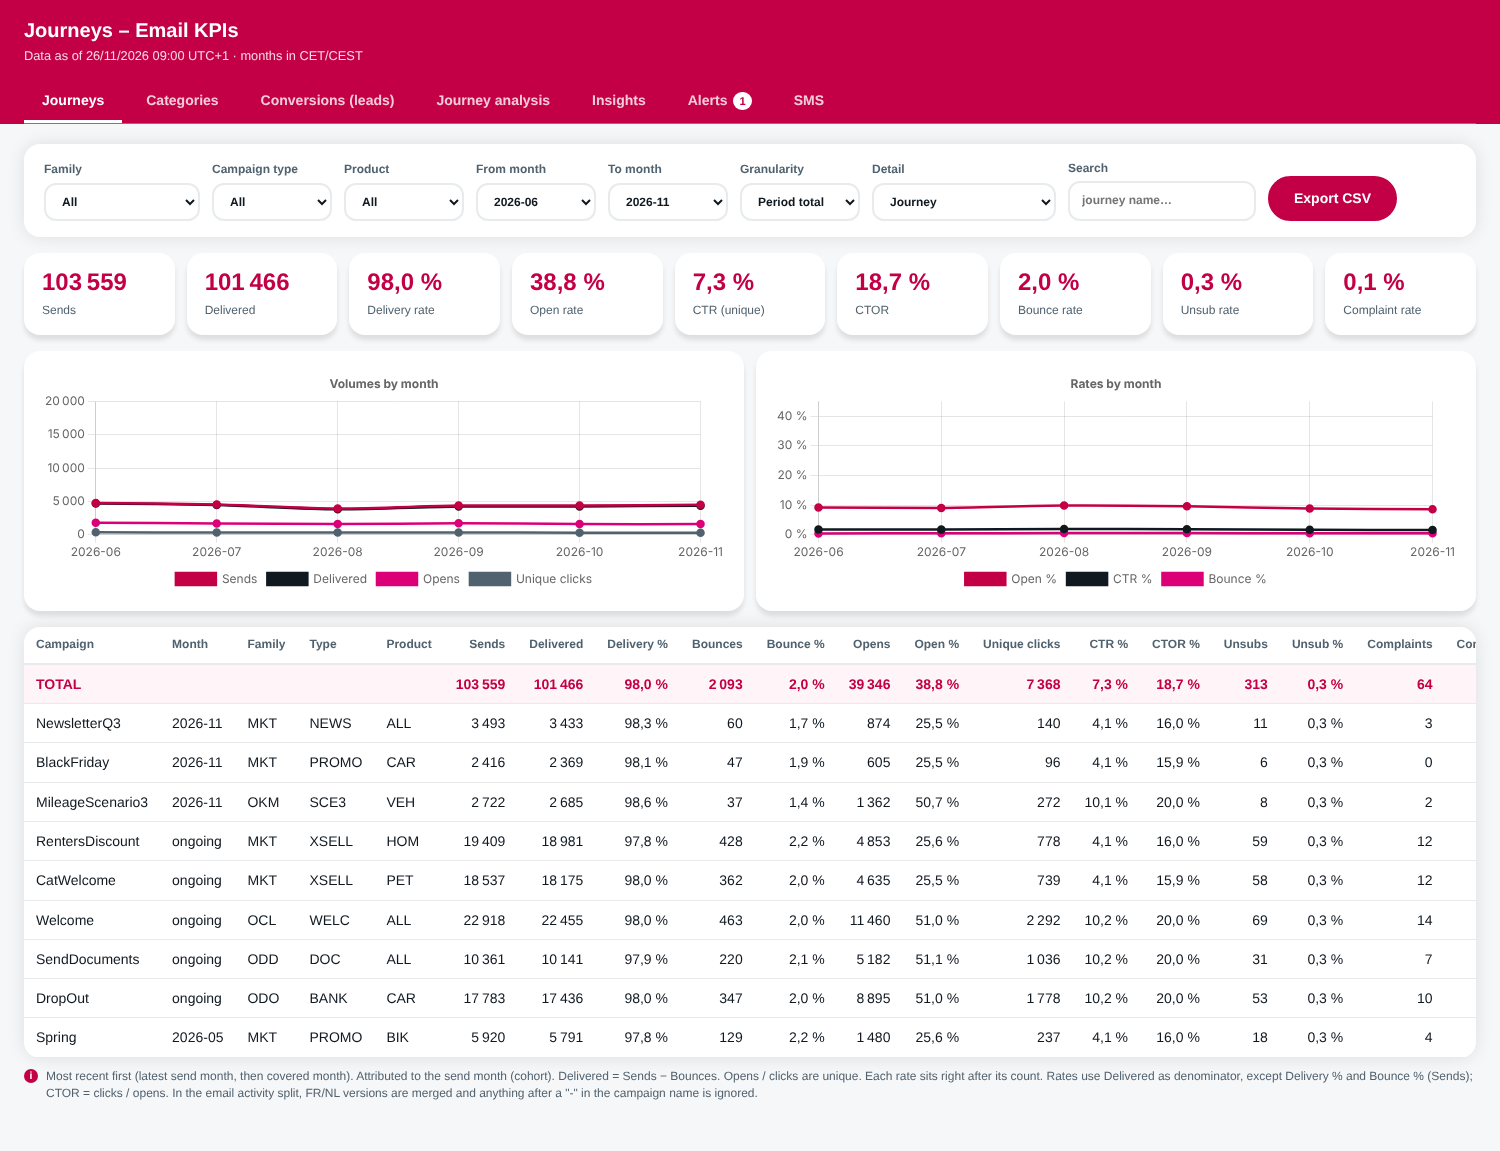
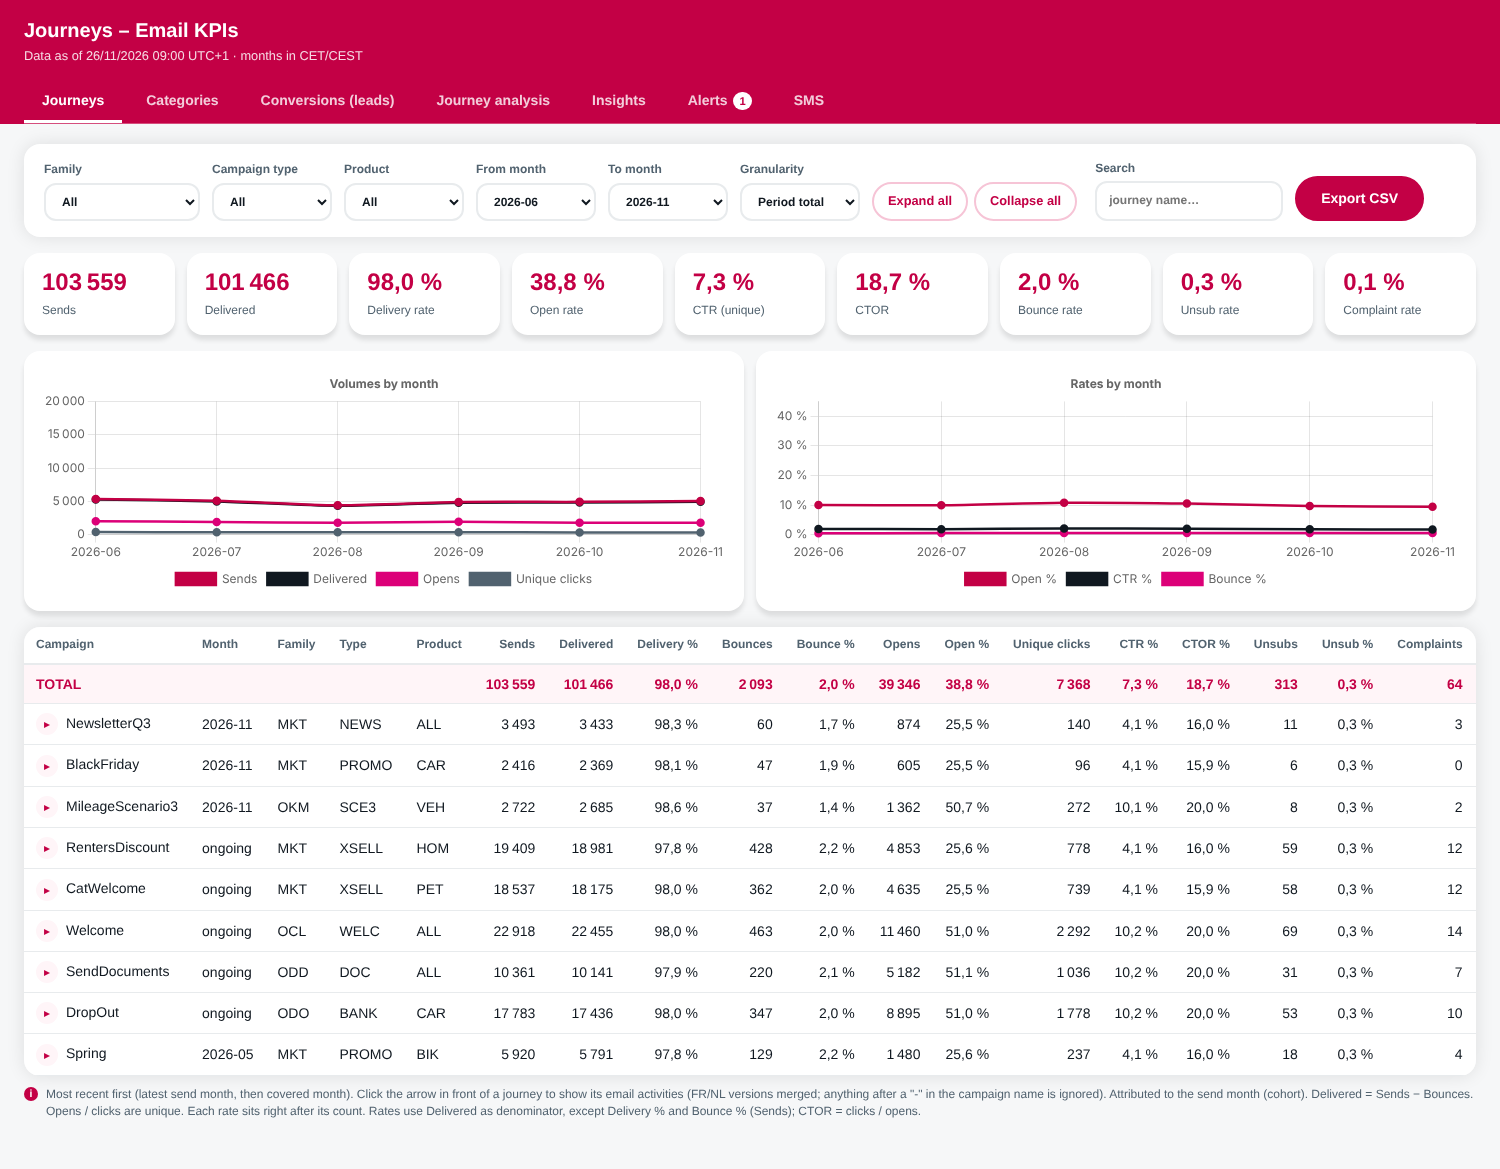
Journeys/Conversions: email activity shown as collapsible rows under each journey
Claude-Session: https://claude.ai/code/session_01WtzjzeTDomDiWbenzCQNQG

diff --git a/cloudpage_dashboard.html b/cloudpage_dashboard.html
@@ -134,6 +134,17 @@ thead th.sorted{color:var(--red)}
 thead th.sorted::after{content:attr(data-arrow)}
 tbody tr:hover td{background:var(--pink-bg)}
 tr.tot td{font-weight:700;background:var(--pink-bg);color:var(--red)}
+.btn2{font:inherit;font-size:.8rem;font-weight:600;padding:8px 14px;margin-right:6px;border-radius:20px;cursor:pointer;background:var(--card);color:var(--red);border:2px solid var(--pink-mid)}
+.btn2:hover{border-color:var(--red)}
+.btn2:focus-visible{outline:2px solid var(--focus);outline-offset:2px}
+.tg{border:0;background:var(--pink-bg);color:var(--red);width:22px;height:22px;border-radius:50%;cursor:pointer;margin-right:8px;font-size:.75rem;line-height:22px;padding:0;vertical-align:middle;transition:transform .15s}
+.tg:hover{background:var(--pink-mid)}
+.tg:focus-visible{outline:2px solid var(--focus);outline-offset:1px}
+.tg[aria-expanded=true]{transform:rotate(90deg)}
+tr.child td{background:var(--pink-bg);font-size:.92em;color:var(--mute)}
+tr.child td.ind{padding-left:44px;color:var(--fg)}
+tr.child:hover td{background:var(--pink-light)}
+@media (prefers-color-scheme:dark){tr.child:hover td{background:#3a2430}}
 .h2{font-size:1rem;font-weight:700;margin:22px 0 10px}
 .msg{padding:30px;text-align:center;color:var(--mute)}.err{color:#ffd6e1;font-weight:600}
 .note{font-size:.75rem;color:var(--mute);margin-top:10px;padding-left:22px;position:relative}
@@ -180,8 +191,8 @@ td.bad{color:var(--err);font-weight:700}
     <label class="ctl" id="lFrom">From month<select id="fFrom"></select></label>
     <label class="ctl" id="lTo">To month<select id="fTo"></select></label>
     <label class="ctl" id="lGran">Granularity<select id="fGran"><option value="total">Period total</option><option value="month">By month</option></select></label>
-    <label class="ctl" id="lDet">Detail<select id="fDet"><option value="journey">Journey</option><option value="activity">Journey + email activity</option></select></label>
-    <label class="ctl" id="lGrp">Group by<select id="fGrp"><option value="journey">Journey</option><option value="activity">Journey + email activity</option><option value="cat">Category</option><option value="type">Campaign type</option><option value="product">Product</option></select></label>
+    <span class="ctl" id="lExp"><button class="btn2" id="bExp" type="button">Expand all</button><button class="btn2" id="bCol" type="button">Collapse all</button></span>
+    <label class="ctl" id="lGrp">Group by<select id="fGrp"><option value="journey">Journey</option><option value="cat">Category</option><option value="type">Campaign type</option><option value="product">Product</option></select></label>
     <label class="ctl" id="lView">View by<select id="fView"><option value="cat">Category (prefix)</option><option value="type">Campaign type</option><option value="product">Product</option></select></label>
     <label class="ctl" id="lAlert">Alert scope<select id="fAlert"><option value="ongoing">Ongoing journeys only</option><option value="all">All journeys</option></select></label>
     <label class="ctl" id="lQ">Search<input id="fQ" placeholder="journey name…"></label>
@@ -238,13 +249,15 @@ const ALERT_MIN = 500;        /* only for journeys with more than 500 sends last
 const ALERT_MIN_DAYS = 3;     /* do not alert before 3 full days of data in the month */
 
 const PALETTE=['#c30045','#101820','#dc0078','#51626f','#4b9b30','#ad0cdf'];
-const S = {tab:'journeys', fam:'ALL', type:'', prod:'', from:'', to:'', gran:'total', det:'journey', grp:'journey', view:'cat', q:'', j:'', alert:'ongoing'};
+const S = {tab:'journeys', fam:'ALL', type:'', prod:'', from:'', to:'', gran:'total', grp:'journey', view:'cat', q:'', j:'', alert:'ongoing'};
 const SORT = {};   /* sort state per table id: {k,d} */
+const EXP = new Set();   /* expanded journey rows (email activity detail) */
+const EXPKEYS = {};      /* keys of the rows that can be expanded, per table */
 
 const TABS = {
-  journeys:{view:'main', ctl:['lFam','lType','lProd','lFrom','lTo','lGran','lDet','lQ'], csv:'tbl'},
+  journeys:{view:'main', ctl:['lFam','lType','lProd','lFrom','lTo','lGran','lExp','lQ'], csv:'tbl'},
   cats:    {view:'main', ctl:['lFam','lType','lProd','lFrom','lTo','lGran','lView','lQ'], csv:'tbl'},
-  conv:    {view:'main', ctl:['lFam','lType','lProd','lFrom','lTo','lGran','lGrp','lQ'], csv:'tbl'},
+  conv:    {view:'main', ctl:['lFam','lType','lProd','lFrom','lTo','lGran','lGrp','lExp','lQ'], csv:'tbl'},
   ana:     {view:'ana',  ctl:['lJ','lFrom','lTo'], csv:'tEmail'},
   ins:     {view:'ins',  ctl:['lFam','lType','lProd','lFrom','lTo'], csv:null},
   alerts:  {view:'alerts', ctl:['lAlert'], csv:'tAlerts'},
@@ -372,15 +385,31 @@ function renderTable(id, keyCols, cols, rows, total, opts){
   if (sk){ const sc = all.find(c=>c.k===sk); rows.sort((a,b)=>{const x=sc.v(a),y=sc.v(b);return (x>y?1:x<y?-1:0)*dir;}); }
   else if (opts.cmp){ rows.sort(opts.cmp); }
   else { sk = opts.defK && all.find(c=>c.k===opts.defK) ? opts.defK : cols[0]?.k; dir=-1; const sc=all.find(c=>c.k===sk); rows.sort((a,b)=>{const x=sc.v(a),y=sc.v(b);return (x>y?1:x<y?-1:0)*dir;}); }
+  /* child rows (email activities) sorted by the sorted numeric column, else by the first numeric column */
+  const kc = (sk && cols.find(c=>c.k===sk)) || cols[0];
+  const rowKey = r => id+'|'+r.name+'|'+(r.month||'');
+  const keys = [];
   let h = '<thead><tr>'+all.map(c=>`<th class="${c.left?'l':''} ${c.k===sk?'sorted':''}" data-k="${c.k}" data-arrow="${dir>0?' ▲':' ▼'}">${esc(c.l)}</th>`).join('')+'</tr></thead><tbody>';
   if (total) h += '<tr class="tot">'+all.map(c=>`<td class="${c.left?'l':''}">${c.left? (c===all[0]?'TOTAL':'') : c.f(total)}</td>`).join('')+'</tr>';
-  for (const r of rows) h += '<tr>'+all.map(c=>`<td class="${(c.left?'l ':'')+(c.cls?c.cls(r):'')}">${c.f(r)}</td>`).join('')+'</tr>';
+  for (const r of rows){
+    const ch = opts.children ? opts.children(r) : null, rk = rowKey(r), open = !!(ch && ch.length && EXP.has(rk));
+    if (ch && ch.length) keys.push(rk);
+    h += '<tr>'+all.map((c,i)=>{
+      let inner = c.f(r);
+      if (i===0 && ch && ch.length) inner = `<button type="button" class="tg" data-rk="${esc(rk)}" aria-expanded="${open}" title="Show / hide email activities" aria-label="Show or hide email activities">▸</button>`+inner;
+      return `<td class="${(c.left?'l ':'')+(c.cls?c.cls(r):'')}">${inner}</td>`;
+    }).join('')+'</tr>';
+    if (open) for (const x of [...ch].sort((a,b)=>kc.v(b)>kc.v(a)?1:kc.v(b)<kc.v(a)?-1:0))
+      h += '<tr class="child">'+all.map((c,i)=> c.left ? (i===0 ? `<td class="l ind">↳ ${esc(x.act||x.name)}</td>` : '<td class="l"></td>') : `<td>${c.f(x)}</td>`).join('')+'</tr>';
+  }
   if (!rows.length) h += `<tr><td class="l msg" colspan="${all.length}">${esc(opts.empty||'No data for the current selection.')}</td></tr>`;
   h += '</tbody>';
+  EXPKEYS[id] = keys;
   $(id).innerHTML = h;
   $(id).querySelectorAll('th').forEach(th=>th.onclick=()=>{
     const k=th.dataset.k, cur=SORT[id]; SORT[id] = {k, d: cur&&cur.k===k ? -cur.d : -1}; render();
   });
+  $(id).querySelectorAll('.tg').forEach(b=>b.onclick=e=>{ e.stopPropagation(); const k=b.dataset.rk; EXP.has(k)?EXP.delete(k):EXP.add(k); render(); });
 }
 
 function cards(id, items){ $(id).innerHTML = items.map(([v,l])=>`<div class="card"><b>${v}</b><span>${esc(l)}</span></div>`).join(''); }
@@ -407,35 +436,40 @@ const byMonthCharts = rows => {
 };
 
 /* ---------- Journeys / Categories ---------- */
+function childMap(list, monthly){
+  const km = new Map();
+  for (const a of list){ const k = a.name+'|'+a.month; if(!km.has(k)) km.set(k,[]); km.get(k).push(a); }
+  return r => km.get(r.name+'|'+r.month);
+}
 function viewKpi(dim){
-  const detail = S.tab==='journeys' && S.det==='activity';
-  const src = detail ? D.email : D.kpi;
-  const rows = src.filter(r=>inScope(r.JourneyName,r.Month));
   const monthly = S.gran==='month';
-  const grouped = group(rows, r => [dimVal(r,dim), monthly ? r.Month : '', detail ? parseEmail(r.EmailName).label : '']);
+  const rows = D.kpi.filter(r=>inScope(r.JourneyName,r.Month));
+  const grouped = group(rows, r => [dimVal(r,dim), monthly ? r.Month : '']);
   const tot = group(rows, r=>['','']) [0] || ZERO();
   cards('cards', kpiCards(tot));
-  const keyCols = dim==='journey' ? journeyCols(detail, monthly)
+  const isJ = dim==='journey';
+  const keyCols = isJ ? journeyCols(false, monthly)
     : [{k:'name',l:DIMLAB[dim],v:a=>dimShow(dim,a.name).toLowerCase(),f:a=>esc(dimShow(dim,a.name))}].concat(monthly?[{k:'month',l:'Month',v:a=>a.month,f:a=>esc(a.month)}]:[]);
-  renderTable('tbl', keyCols, KPI_COLS, grouped, tot, dim==='journey' ? {cmp:recentCmp, empty: detail&&!D.email.length?'Email-level data not available yet (DASH_Email_KPI_Monthly).':''} : {defK:monthly?'month':null});
+  let opts = {defK:monthly?'month':null};
+  if (isJ){
+    const acts = S.tab==='journeys' && D.email.length ? group(D.email.filter(r=>inScope(r.JourneyName,r.Month)), r=>[r.JourneyName, monthly?r.Month:'', parseEmail(r.EmailName).label]) : [];
+    opts = {cmp:recentCmp, children:childMap(acts, monthly)};
+  }
+  renderTable('tbl', keyCols, KPI_COLS, grouped, tot, opts);
   drawCharts(byMonthCharts(rows));
-  $('note').textContent = (S.tab==='journeys' ? "Most recent first (latest send month, then covered month). " : "") +
-    "Attributed to the send month (cohort). Delivered = Sends − Bounces. Opens / clicks are unique. Each rate sits right after its count. Rates use Delivered as denominator, except Delivery % and Bounce % (Sends); CTOR = clicks / opens. In the email activity split, FR/NL versions are merged and anything after a \"-\" in the campaign name is ignored.";
+  $('note').textContent = (S.tab==='journeys' ? "Most recent first (latest send month, then covered month). Click the arrow in front of a journey to show its email activities (FR/NL versions merged; anything after a \"-\" in the campaign name is ignored). " : "") +
+    "Attributed to the send month (cohort). Delivered = Sends − Bounces. Opens / clicks are unique. Each rate sits right after its count. Rates use Delivered as denominator, except Delivery % and Bounce % (Sends); CTOR = clicks / opens." +
+    (S.tab==='journeys' && !D.email.length ? " Email-level data not available yet (DASH_Email_KPI_Monthly)." : "");
 }
 
 /* ---------- Conversions ---------- */
-function viewConv(){
-  const dim = S.grp, monthly = S.gran==='month', act = dim==='activity';
-  const keyOf = r => [dimVal(r,dim), act ? parseEmail(r.EmailName).label : ''];
-  const rows = D.conv.filter(r=>inScope(r.JourneyName,r.SendMonth));
-  const kRows = (act ? D.email : D.kpi).filter(r=>inScope(r.JourneyName,r.Month));
-  const kg = group(kRows, r=>[dimVal(r,dim), monthly?r.Month:'', act?parseEmail(r.EmailName).label:'']);
+function convAgg(rows, dim, monthly, act){
+  const src = (act ? D.email : D.kpi).filter(r=>inScope(r.JourneyName,r.Month));
+  const kg = group(src, r=>[dimVal(r,dim), monthly?r.Month:'', act?parseEmail(r.EmailName).label:'']);
   const dmap = new Map(kg.map(a=>[a.name+'|'+a.act+'|'+a.month, deliv(a)]));
-  const statuses = {}; rows.forEach(r=>statuses[r.LeadStatus||'(empty)']=(statuses[r.LeadStatus||'(empty)']||0)+1);
-  const stList = Object.keys(statuses).sort((a,b)=>statuses[b]-statuses[a]);
   const m = new Map();
   for (const r of rows){
-    const [nm,ac] = keyOf(r), mo = monthly?r.SendMonth:'', key = nm+'|'+ac+'|'+mo;
+    const nm = dimVal(r,dim), ac = act ? parseEmail(r.EmailName).label : '', mo = monthly?r.SendMonth:'', key = nm+'|'+ac+'|'+mo;
     let a = m.get(key);
     if(!a){ a={name:nm,act:ac,month:mo,last:r.SendMonth,Leads:0,Conv:0,Open:0,Click:0,Days:0,St:{}}; m.set(key,a); }
     if (r.SendMonth>a.last) a.last=r.SendMonth;
@@ -443,12 +477,21 @@ function viewConv(){
     const s=r.LeadStatus||'(empty)'; a.St[s]=(a.St[s]||0)+1;
   }
   const out = [...m.values()]; out.forEach(a=>a.Deliv=dmap.get(a.name+'|'+a.act+'|'+a.month)||0);
+  return {out, dmap};
+}
+function viewConv(){
+  const dim = S.grp, monthly = S.gran==='month';
+  const rows = D.conv.filter(r=>inScope(r.JourneyName,r.SendMonth));
+  const {out, dmap} = convAgg(rows, dim, monthly, false);
+  const statuses = {}; rows.forEach(r=>statuses[r.LeadStatus||'(empty)']=(statuses[r.LeadStatus||'(empty)']||0)+1);
+  const stList = Object.keys(statuses).sort((a,b)=>statuses[b]-statuses[a]);
   const tot = {name:'',Leads:0,Conv:0,Open:0,Click:0,Days:0,St:{},Deliv:[...dmap.values()].reduce((x,y)=>x+y,0)};
   out.forEach(a=>{tot.Leads+=a.Leads;tot.Conv+=a.Conv;tot.Open+=a.Open;tot.Click+=a.Click;tot.Days+=a.Days;for(const s in a.St)tot.St[s]=(tot.St[s]||0)+a.St[s];});
   cards('cards', [[n(tot.Leads),'Leads generated after send'],[n(tot.Conv),'Converted leads (Signed)'],[pct(tot.Conv,tot.Leads),'Conversion rate'],
          [tot.Deliv?(tot.Leads/tot.Deliv*1000).toFixed(2).replace('.',','):'–','Leads / 1,000 delivered'],[pct(tot.Open,tot.Leads),'Leads who opened'],[pct(tot.Click,tot.Leads),'Leads who clicked'],
          [tot.Leads?(tot.Days/tot.Leads).toFixed(1).replace('.',','):'–','Avg. delay (days)']]);
-  const keyCols = (dim==='journey'||act) ? journeyCols(act, monthly)
+  const isJ = dim==='journey';
+  const keyCols = isJ ? journeyCols(false, monthly)
     : [{k:'name',l:DIMLAB[dim],v:a=>dimShow(dim,a.name).toLowerCase(),f:a=>esc(dimShow(dim,a.name))}].concat(monthly?[{k:'month',l:'Send month',v:a=>a.month,f:a=>esc(a.month)}]:[]);
   const cols = [
     {k:'Deliv',l:'Delivered',v:a=>a.Deliv,f:a=>n(a.Deliv)},
@@ -461,14 +504,19 @@ function viewConv(){
     {k:'Days',l:'Avg. delay (d)',v:a=>a.Leads?a.Days/a.Leads:-1,f:a=>a.Leads?(a.Days/a.Leads).toFixed(1).replace('.',','):'–'},
     ...stList.map(s=>({k:'st_'+s,l:'Status: '+s,v:a=>a.St[s]||0,f:a=>n(a.St[s]||0)}))
   ];
-  renderTable('tbl', keyCols, cols, out, tot, (dim==='journey'||act) ? {cmp:recentCmp, empty: act&&!D.email.length?'Email-level data not available yet (DASH_Email_KPI_Monthly).':''} : {defK:monthly?'month':null});
+  let opts = {defK:monthly?'month':null};
+  if (isJ){
+    const acts = D.email.length ? convAgg(rows, 'journey', monthly, true).out : [];
+    opts = {cmp:recentCmp, children:childMap(acts, monthly)};
+  }
+  renderTable('tbl', keyCols, cols, out, tot, opts);
   const byM = {}; rows.forEach(r=>{(byM[r.SendMonth]=byM[r.SendMonth]||{l:0,c:0}); byM[r.SendMonth].l++; byM[r.SendMonth].c+=r.IsConverted;});
   const ms = Object.keys(byM).sort();
   drawCharts([
     {title:'Leads by send month',labels:ms,sets:[{l:'Leads',d:ms.map(x=>byM[x].l)},{l:'Signed',d:ms.map(x=>byM[x].c)}]},
     {title:'Leads by status (period)',type:'bar',labels:stList,sets:[{l:'Leads',d:stList.map(s=>statuses[s])}]}
   ]);
-  $('note').textContent = "Only journeys MKT_XSELL, MKT_PROMO, MKT_NEWS, ODO_, OCL_, ODD_OFF_ and OCX_XSELL_. A lead is attributed to the last send received in the 30 days before its creation (email match), only if the journey product equals the lead product (or the journey product is ALL), and only for statuses that trigger emails (Incomplete: ODO_BANK_CAR_DropOut only; Offer Created: ODD_OFF only) plus Signed (converted). Each lead counts for one journey only.";
+  $('note').textContent = "Only journeys MKT_XSELL, MKT_PROMO, MKT_NEWS, ODO_, OCL_, ODD_OFF_ and OCX_XSELL_. A lead is attributed to the last send received in the 30 days before its creation (email match), only if the journey product equals the lead product (or the journey product is ALL), and only for statuses that trigger emails (Incomplete: ODO_BANK_CAR_DropOut only; Offer Created: ODD_OFF only) plus Signed (converted). Each lead counts for one journey only. Click the arrow in front of a journey to show the split by email activity.";
 }
 
 /* ---------- Alerts ---------- */
@@ -595,6 +643,7 @@ function viewSms(){
 function render(){
   const cfg = TABS[S.tab];
   document.querySelectorAll('.ctl').forEach(el=>el.hidden = !cfg.ctl.includes(el.id));
+  if (S.tab==='conv' && S.grp!=='journey') $('lExp').hidden = true;
   $('bCsv').hidden = !cfg.csv;
   ['main','ana','ins','alerts','sms'].forEach(v=>$('v-'+v).hidden = v!==cfg.view);
   if (S.tab==='journeys') viewKpi('journey'); else if (S.tab==='cats') viewKpi(S.view); else if (S.tab==='conv') viewConv();
@@ -631,8 +680,10 @@ function setup(){
   S.j = js[0] || '';
   const on = (id,fn)=>{ $(id).onchange = e=>{fn(e.target.value); SORT.tbl=null; render();}; };
   on('fType',v=>S.type=v); on('fProd',v=>S.prod=v); on('fView',v=>S.view=v); on('fFam',v=>S.fam=v);
-  on('fFrom',v=>S.from=v); on('fTo',v=>S.to=v); on('fGran',v=>S.gran=v); on('fDet',v=>S.det=v); on('fGrp',v=>S.grp=v);
+  on('fFrom',v=>S.from=v); on('fTo',v=>S.to=v); on('fGran',v=>S.gran=v); on('fGrp',v=>S.grp=v);
   on('fJ',v=>S.j=v); on('fAlert',v=>S.alert=v);
+  $('bExp').onclick = ()=>{ (EXPKEYS.tbl||[]).forEach(k=>EXP.add(k)); render(); };
+  $('bCol').onclick = ()=>{ (EXPKEYS.tbl||[]).forEach(k=>EXP.delete(k)); render(); };
   $('fQ').oninput = e=>{S.q=e.target.value;render();};
   document.querySelectorAll('.tab').forEach(b=>b.onclick=()=>{
     document.querySelectorAll('.tab').forEach(x=>x.setAttribute('aria-selected',x===b));

diff --git a/README.md b/README.md
@@ -58,9 +58,9 @@ Libellés lisibles : renseigner `LABELS.type` / `LABELS.product` en haut du scri
 
 
 ## Onglets du dashboard
-- **Journeys** : triées de la plus récente à la plus ancienne ; colonnes Campaign, Month (mois couvert), Family, Type, Product ; option *Detail* = Journey + email activity.
+- **Journeys** : triées de la plus récente à la plus ancienne ; colonnes Campaign, Month (mois couvert), Family, Type, Product ; chaque journey a une icône flèche qui affiche ou masque, juste en dessous, le détail par activité email (boutons *Expand all* / *Collapse all*).
 - **Categories** : vue par préfixe, type de campagne ou produit.
-- **Conversions (leads)** : leads attribués (voir `sql/NOTES.md` pour les règles) ; regroupement possible par activité email.
+- **Conversions (leads)** : leads attribués (voir `sql/NOTES.md` pour les règles) ; même détail par activité email, repliable sous chaque journey.
 - **Journey analysis** : une journey en détail : langues FR/NL, emails, KPI et liste des liens (chargée à la demande).
 - **Insights** : top 5 des domaines (envois, bounces, complaints) et top 5 des journeys par bounces.
 - **Alerts** : volume du mois en cours comparé au mois précédent (ramené au prorata des jours écoulés) ; alerte si plus de 15 % en dessous, pour les journeys de plus de 500 envois le mois dernier. Réglages `ALERT_DROP`, `ALERT_MIN`, `ALERT_MIN_DAYS` en haut du script du dashboard.
